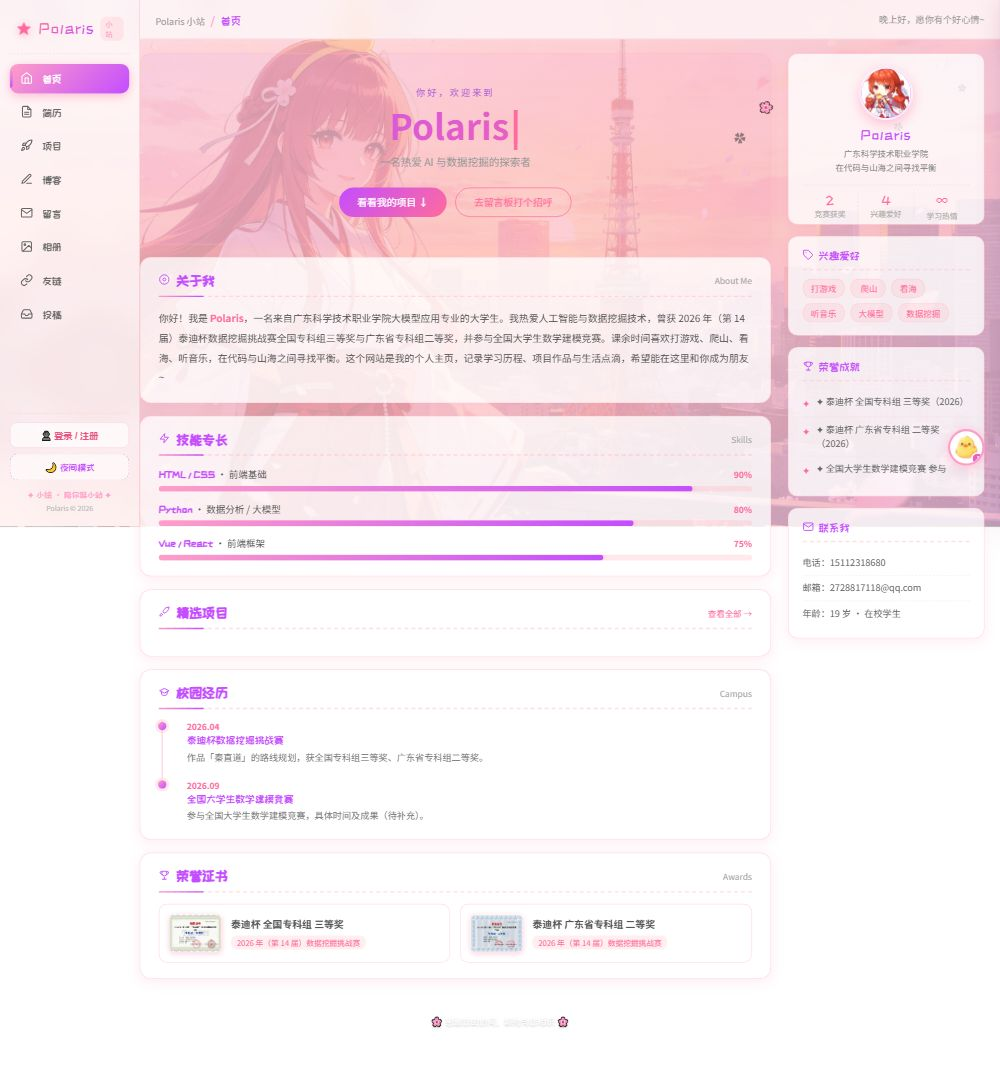
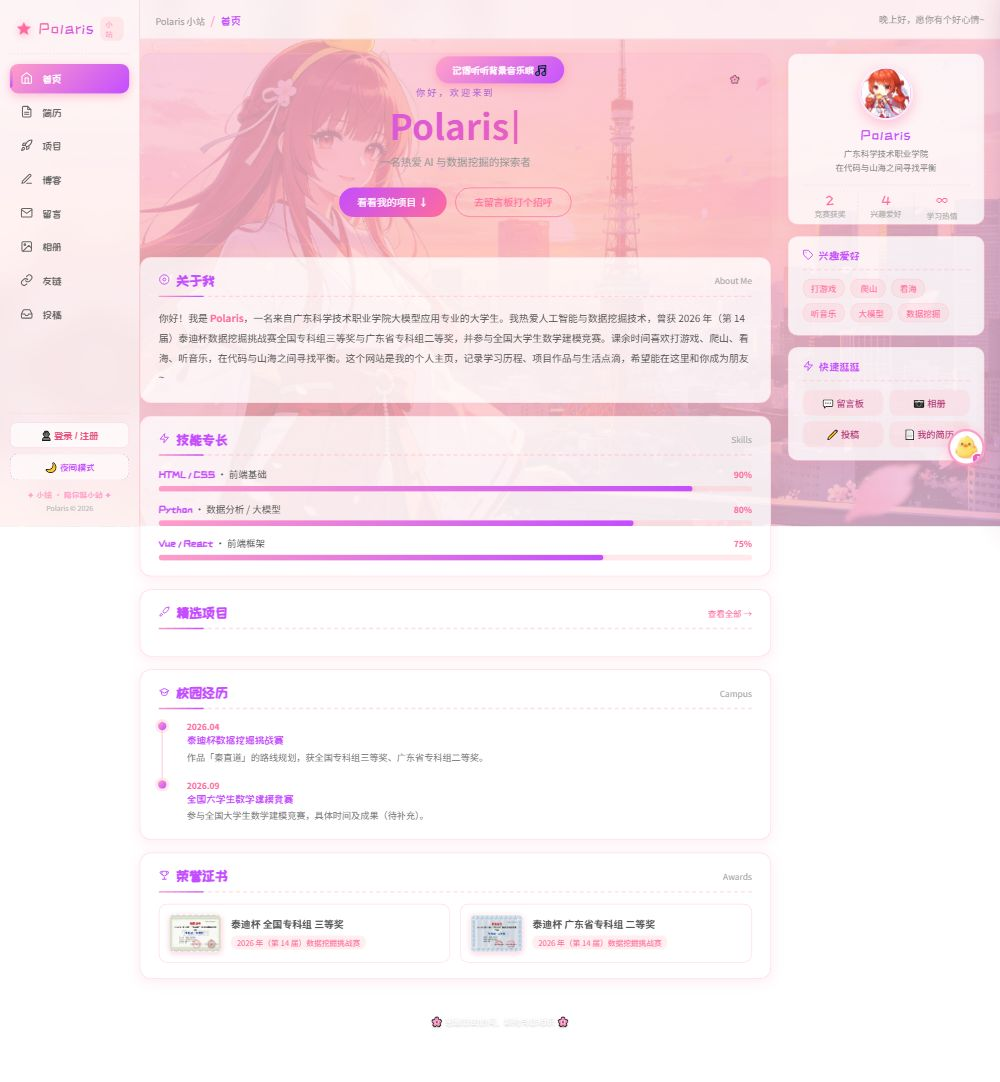
refactor: 右侧栏改快捷入口

Changed region(s): [[0.775, 0.3355, 0.992, 0.5795], [0.434, 0.0305, 0.558, 0.0915], [0.744, 0.0915, 0.775, 0.122]]

diff --git a/index.html b/index.html
@@ -306,12 +306,13 @@ body.dark ::placeholder{color:#888;}
                         <div class="tag-list" id="homeInterests"></div>
                     </div>
                     <div class="rail-card">
-                        <div class="rail-card-title"><span class="t-icon"><svg width="16" height="16" viewBox="0 0 24 24" fill="none" stroke="currentColor" stroke-width="2" stroke-linecap="round" stroke-linejoin="round"><path d="M8 21h8m-4-4v4M7 4h10v5a5 5 0 01-10 0V4z"/><path d="M17 5h3a1 1 0 011 1c0 3-2 5-4 5M7 5H4a1 1 0 00-1 1c0 3 2 5 4 5"/></svg></span>荣誉成就</div>
-                        <ul class="rail-list" id="homeAwards"></ul>
-                    </div>
-                    <div class="rail-card">
-                        <div class="rail-card-title"><span class="t-icon"><svg width="16" height="16" viewBox="0 0 24 24" fill="none" stroke="currentColor" stroke-width="2" stroke-linecap="round" stroke-linejoin="round"><path d="M4 4h16c1.1 0 2 .9 2 2v12c0 1.1-.9 2-2 2H4c-1.1 0-2-.9-2-2V6c0-1.1.9-2 2-2z"/><polyline points="22,6 12,13 2,6"/></svg></span>联系我</div>
-                        <ul class="rail-list" id="homeContact"></ul>
+                        <div class="rail-card-title"><span class="t-icon"><svg width="16" height="16" viewBox="0 0 24 24" fill="none" stroke="currentColor" stroke-width="2" stroke-linecap="round" stroke-linejoin="round"><path d="M13 2L3 14h9l-1 8 10-12h-9l1-8z"/></svg></span>快速逛逛</div>
+                        <div class="quick-links">
+                            <a class="quick-link" href="#guestbook">💬 留言板</a>
+                            <a class="quick-link" href="#gallery">📷 相册</a>
+                            <a class="quick-link" href="#submit">✏ 投稿</a>
+                            <a class="quick-link" href="#resume">📄 我的简历</a>
+                        </div>
                     </div>
                 </aside>
             </div>
